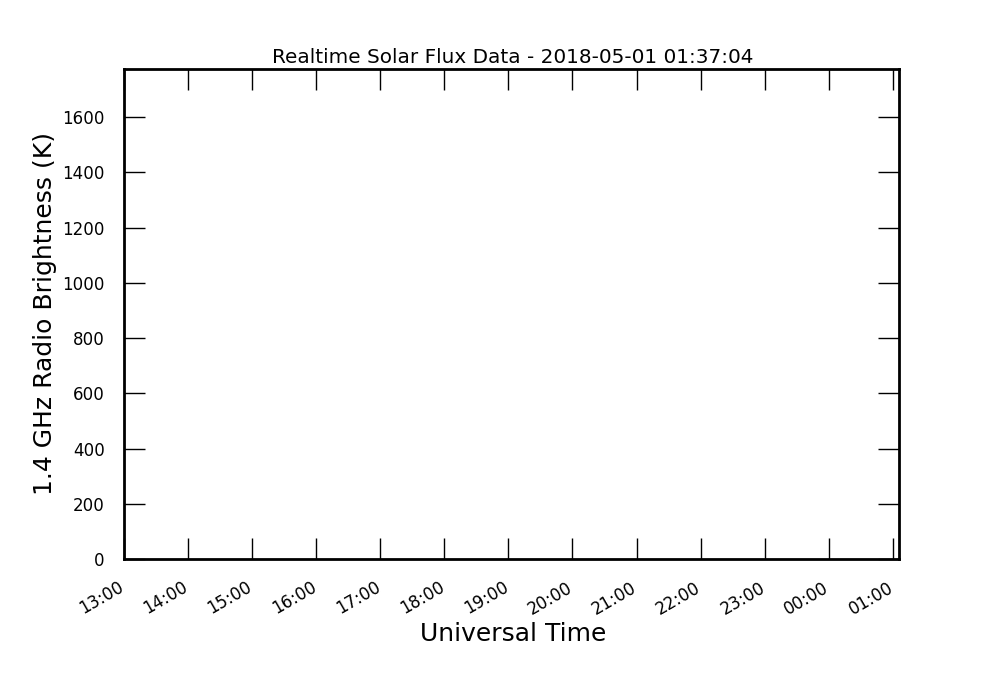
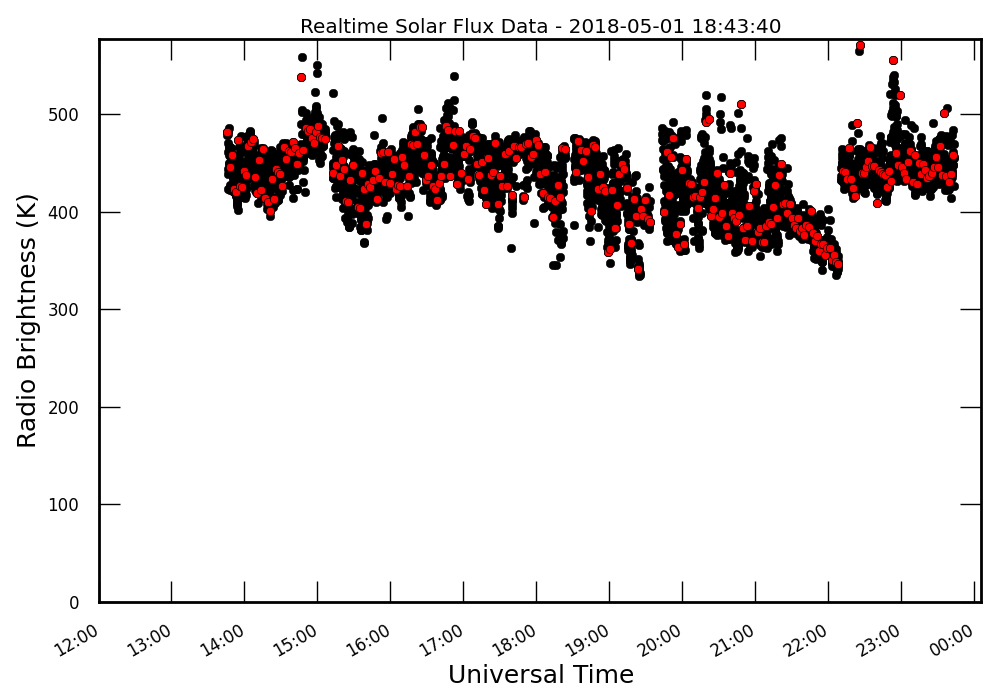
update

diff --git a/index.html b/index.html
@@ -19,7 +19,7 @@ Made March 2017
     <meta name="author" content="Nickalas Reynolds">
     <meta HTTP-EQUIV="refresh" CONTENT="600">
 
-    <title>Nielsen Small Radio Telescope</title>
+    <title>SRT</title>
 
     <!--####################-->
     <!-- Bootstrap Core CSS -->
@@ -132,19 +132,19 @@ html,body {
     <header style="padding-top: 150px;">
         <div class="intro-body row containerf">
             <div class="col-md-8 col-md-offset-2">
-                <h1><center>Nielsen Hall Small Radio Telescope </center></h1><br>
+                <h1><center>Nielsen Hall Sooner Radio Telescope </center></h1><br>
                 <div class="flex-containerimg container" id="images">
                     <ul>
                         <li>
-                            <h3>SRT Camera<br><p style="color:green">Live</p></h3>
+                            <h3>SRT Cam<br><p style="color:green">Live</p></h3>
                             <a href="./img/curr_live_img.jpg" target="_blank"> <img src="./img/curr_live_img.jpg" alt="Live Camera" width="100%"></a>
                         </li>
                         <li>
-                            <h3>SRTN Software<br><p style="color:green">Live</p></h3>
+                            <h3>SRTN<br><p style="color:green">Live</p></h3>
                             <a href="./img/curr_terminal.jpg" target="_blank"> <img src="./img/curr_terminal.jpg" alt="SRTN Program" width="100%"></a>
                         </li>
                         <li>
-                            <h3>Integrated Flux<br><p style="color:green">Live</p></h3>
+                            <h3>Solar Flux<br><p style="color:green">Live</p></h3>
                             <a href="./img/realsun_integ.png" target="_blank"> <img src="./img/realsun_integ.png" alt="Integrated Flux" width="107.5%"></a>
                         </li>
                     </ul>
@@ -152,6 +152,16 @@ html,body {
             </div>
         </div>
     </header>
+    <!--###########-->
+    <!-- FullSolar -->
+    <!--###########-->
+    <section class="flex-container center">
+        <h2>Full Solar Flux Plot</h2>
+        <h2>Updates Daily</h2>
+        <div class="">
+            <a href="./img/sun-current.all.png" target="_blank"><img src="./img/sun-current.all.lowres.png" width="100%"></a>
+        </div>
+    </section>
 
     <!--####################-->
     <!-- Inbetween Sections -->
